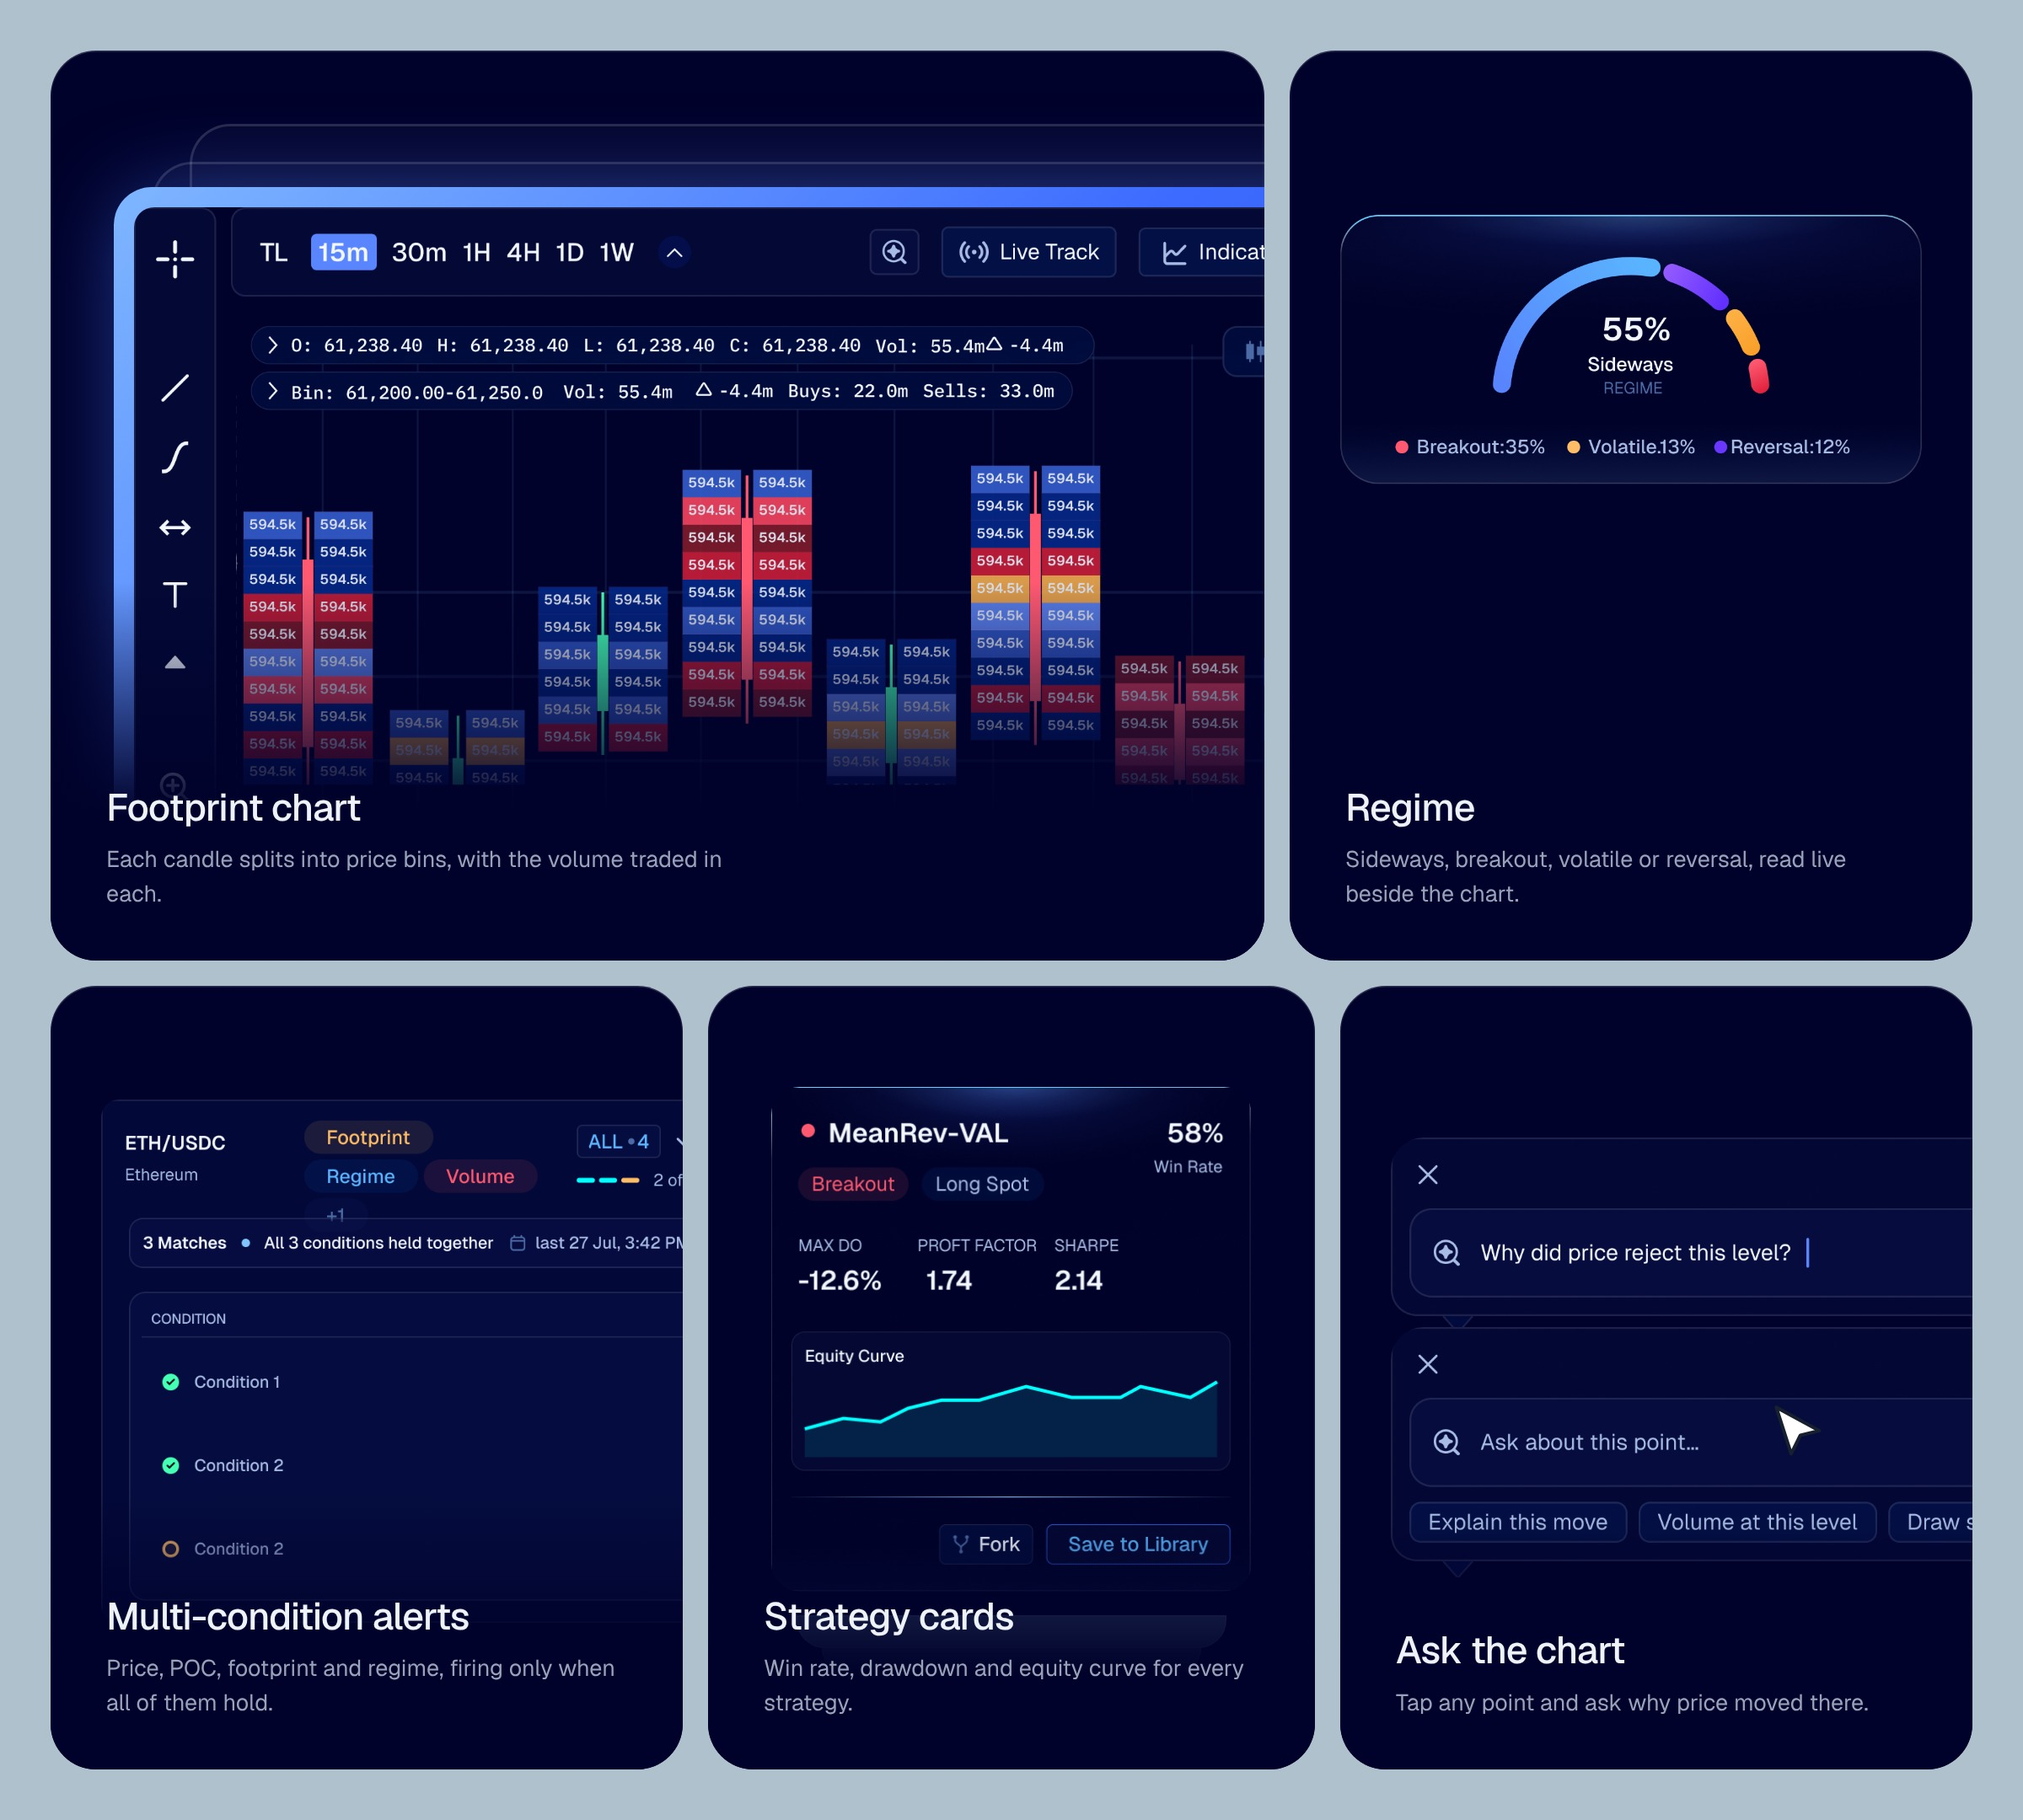
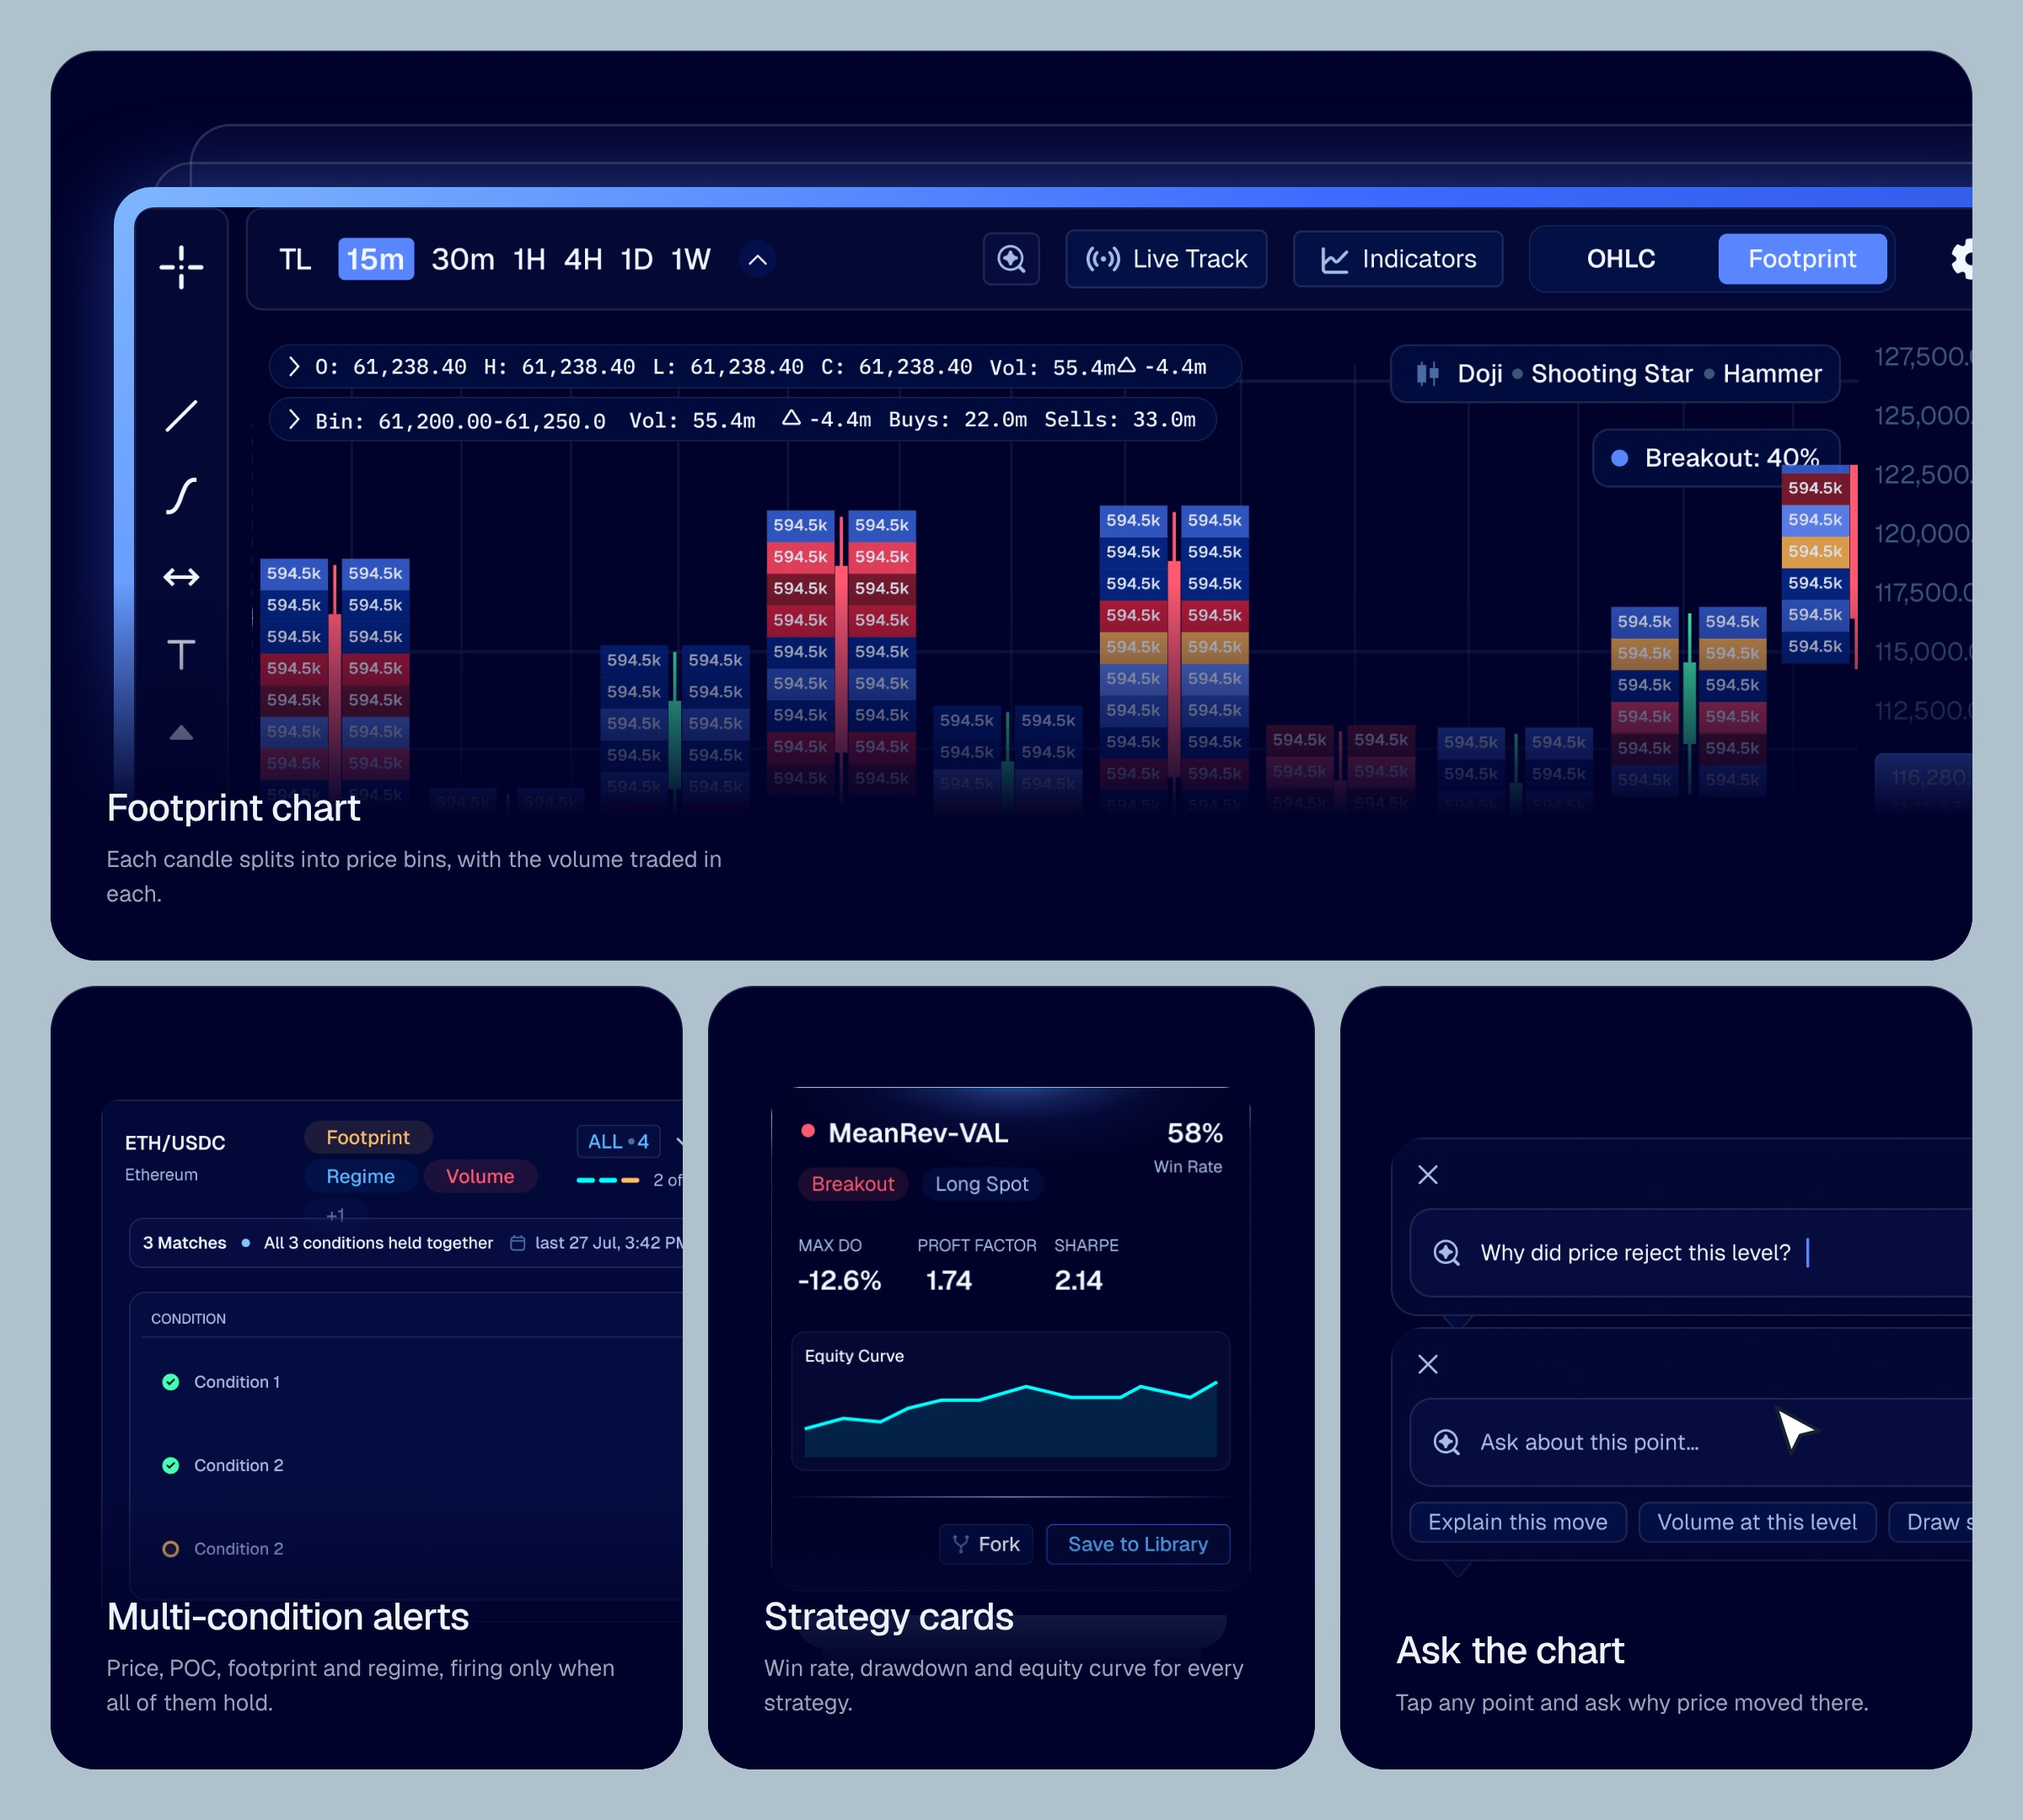
Jaadu bento: drop the regime tile; footprint full width
Claude-Session: https://claude.ai/code/session_01L48ecgvWMXiCwrAdC3aGTG

diff --git a/scripts/mockups/jaadu/bento.html b/scripts/mockups/jaadu/bento.html
@@ -31,11 +31,10 @@ const cursor=(l,t)=>`<svg style="position:absolute;left:${l}px;top:${t}px;z-inde
 const S=[]
 // Page 1: footprint (stacked frames, glow) + regime, then alerts, strategy card, chart prompt
 S.push(P('p1',1440,
- T(40,40,960,720,
-   `<div class="ghost" style="left:110px;top:58px;width:1000px;height:700px"></div><div class="ghost" style="left:80px;top:88px;width:1000px;height:700px"></div>`+
-   `<div class="glow" style="left:50px;top:108px"><img src="${F}fp.png" style="width:1300px"></div>`,
+ T(40,40,1520,720,
+   `<div class="ghost" style="left:110px;top:58px;width:1500px;height:700px"></div><div class="ghost" style="left:80px;top:88px;width:1500px;height:700px"></div>`+
+   `<div class="glow" style="left:50px;top:108px"><img src="${F}fp.png" style="width:1500px"></div>`,
    'Footprint chart','Each candle splits into price bins, with the volume traded in each.',300)+
- T(1020,40,540,720,im('c-regime',460,40,130,28),'Regime','Sideways, breakout, volatile or reversal, read live beside the chart.',230)+
  T(40,780,500,620,im('c-alert',1300,40,90,14),'Multi-condition alerts','Price, POC, footprint and regime, firing only when all of them hold.',220)+
  T(560,780,480,620,`<div class="stackbar" style="left:90px;top:520px;width:300px;height:26px"></div><div class="stackbar" style="left:70px;top:498px;width:340px;height:26px;background:#2B3B60"></div>`+im('card1',380,50,80,22),'Strategy cards','Win rate, drawdown and equity curve for every strategy.',200)+
  T(1060,780,500,620,im('c-prompt-typing',560,40,120,26)+im('c-prompt-suggested',560,40,270,26)+cursor(340,330),'Ask the chart','Tap any point and ask why price moved there.',200)))
